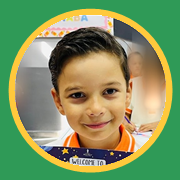
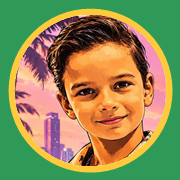
New profile sticker for Uras

diff --git a/index.html b/index.html
@@ -837,7 +837,7 @@ function confetti(){
 }
 
 /* ---------- Player card + photo ---------- */
-const DEFAULT_PHOTO='uras-sticker.jpg';
+const DEFAULT_PHOTO='uras-sticker.jpg?v=2'; /* bump v when the sticker image changes, so browsers fetch the new one */
 function stickerHTML(){
  const own=!!S.photo;const p=own?S.ph:{x:50,y:50,z:1};
  const empty='<label for=&quot;photo-in&quot; class=&quot;ph-empty&quot;><b>📷</b>Add photo</label>';

diff --git a/uras-english-cup.html b/uras-english-cup.html
@@ -829,7 +829,7 @@ function confetti(){
 }
 
 /* ---------- Player card + photo ---------- */
-const DEFAULT_PHOTO='uras-sticker.jpg';
+const DEFAULT_PHOTO='uras-sticker.jpg?v=2'; /* bump v when the sticker image changes, so browsers fetch the new one */
 function stickerHTML(){
  const own=!!S.photo;const p=own?S.ph:{x:50,y:50,z:1};
  const empty='<label for=&quot;photo-in&quot; class=&quot;ph-empty&quot;><b>📷</b>Add photo</label>';
